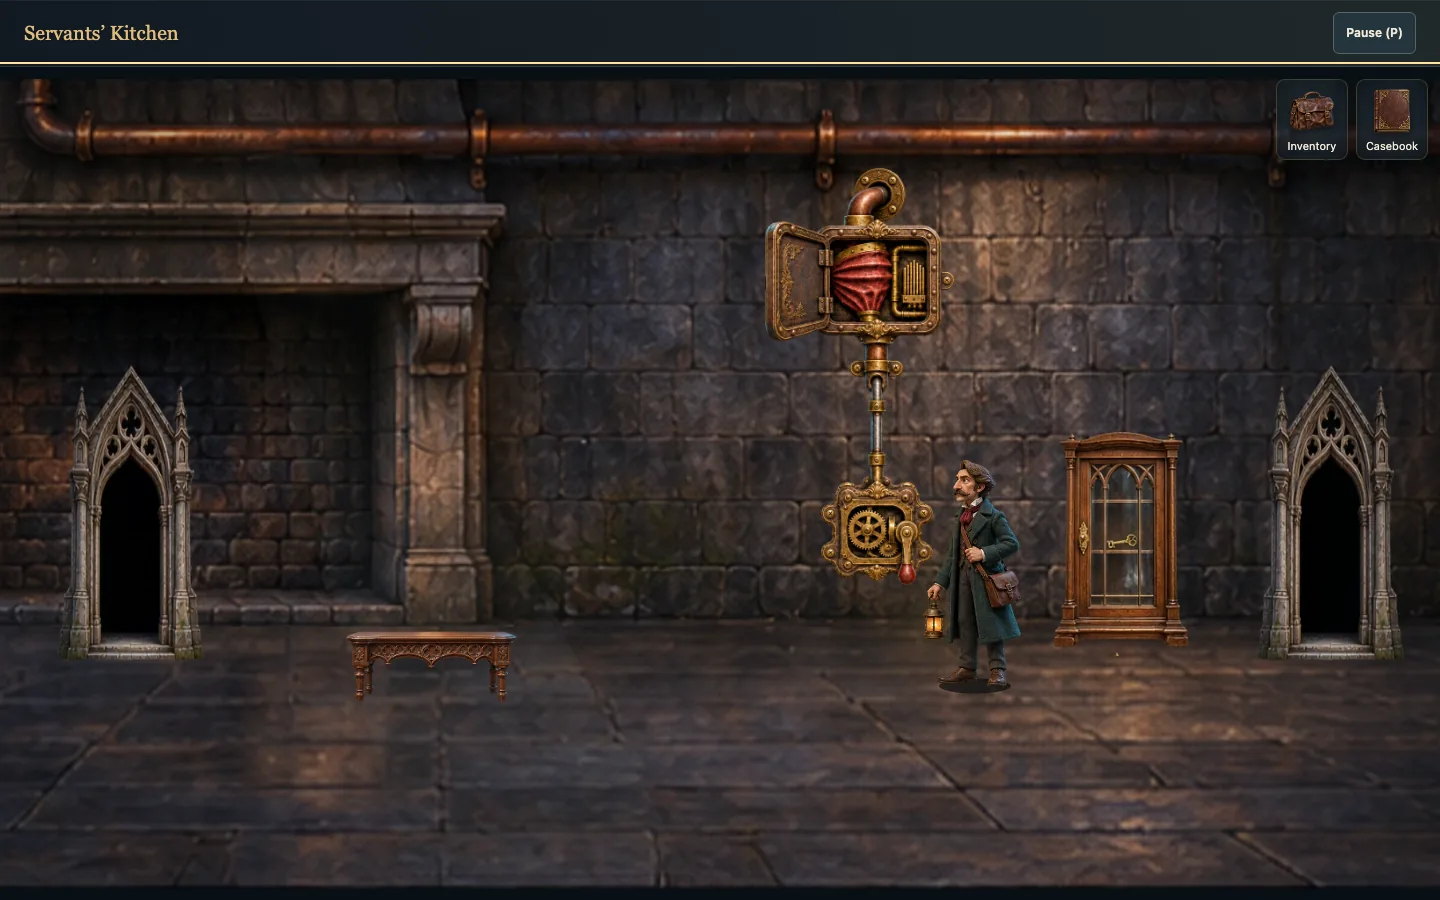
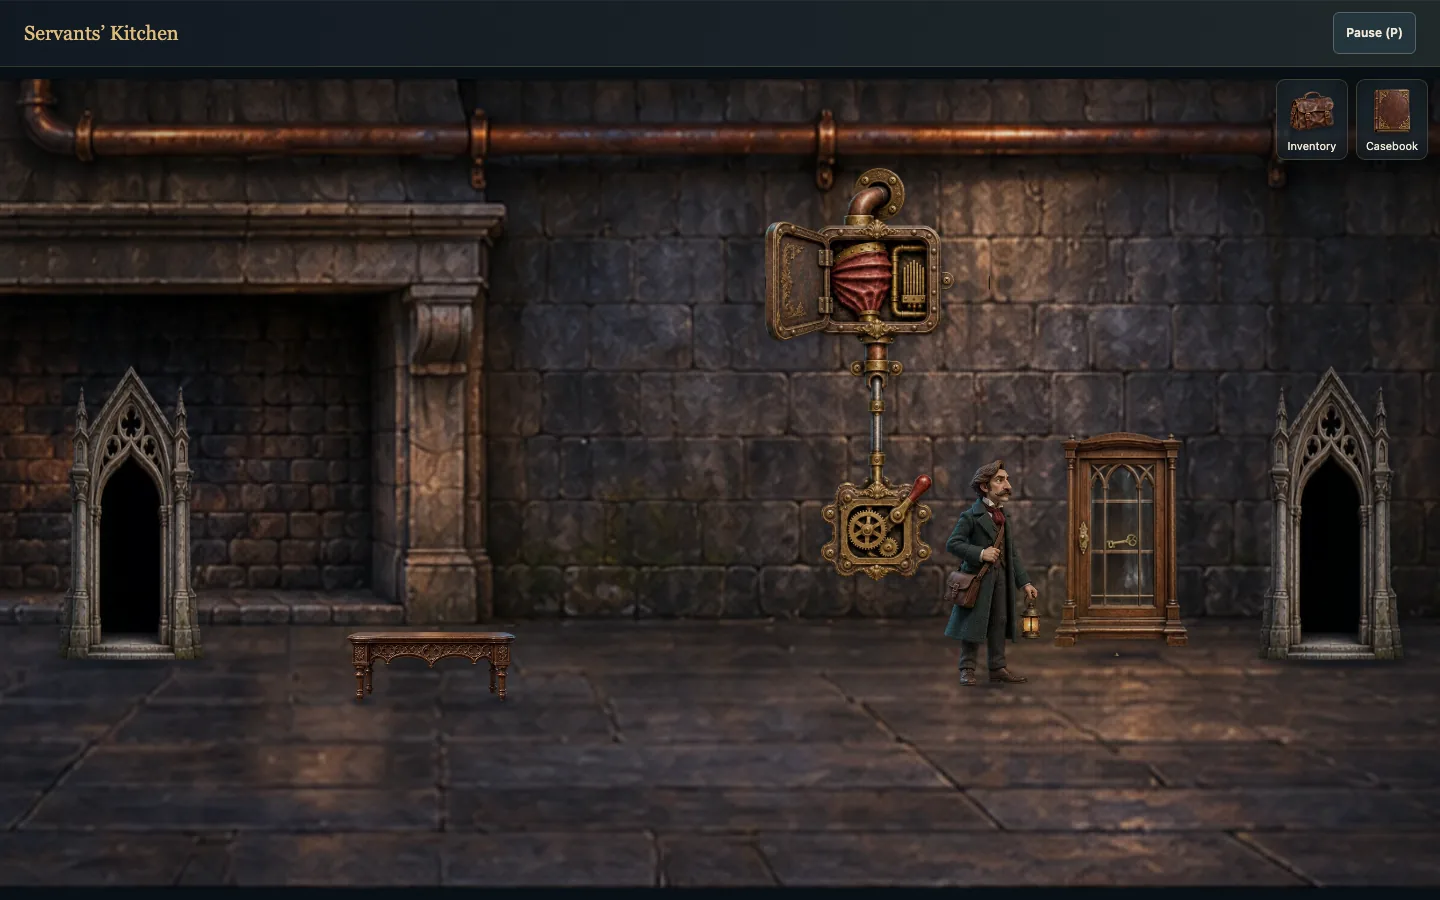
fix: unify adventure scene lighting without blurring sprites (#106)

diff --git a/src/games/point-and-click-adventure/presentation.ts b/src/games/point-and-click-adventure/presentation.ts
@@ -2,6 +2,7 @@ import { createImageResource } from '../../engine/browser/images.ts';
 import { rooms, getTarget, type Point, type TargetId, type ItemId } from './content.ts';
 import { has, roomTargets, wardReady, type Run, type Command, type TargetCommand } from './game.ts';
 import { arcadeArt, appearances, validateArtwork, walkClip, strideDistance, type AdventureArt, type CastRole, type PropRole } from './art.ts';
+import { createSceneArt } from './scene-art.ts';
 export const WORLD = { width: 960, height: 540 };
 export function transform(width: number, height: number) {
   const scale = Math.min(width / WORLD.width, height / WORLD.height);
@@ -28,6 +29,7 @@ export function createPresentation(surface: HTMLElement, art: AdventureArt = arc
   edge.addColorStop(0, '#00000000'); edge.addColorStop(1, '#02091077');
   edgeContext.fillStyle = edge; edgeContext.fillRect(0, 0, WORLD.width, WORLD.height);
   const resource = createImageResource(artwork, dimensions => validateArtwork(art, dimensions));
+  const sceneArt = createSceneArt(art.mode, () => resource.images);
   let disposed = false, sceneryKey = '';
   surface.append(canvas);
   let last: { run: Run; room: Run['room']; x: number; y: number; time: number } | undefined;
@@ -58,20 +60,35 @@ export function createPresentation(surface: HTMLElement, art: AdventureArt = arc
   }
   function sprite(c: CanvasRenderingContext2D, role: PropRole, x: number, y: number, w: number, h: number, angle = 0) {
     const f = propFrames[role], scale = Math.min(w / f.w, h / f.h);
+    if (['crate', 'cabinetOpen', 'cabinetClosed'].includes(role)) shadow(c, x + w / 2, y + h / 2 + f.h * scale / 2, f.w * scale * .48);
+    if (['journal', 'musicBox', 'brush'].includes(role)) shadow(c, x + w / 2, y + h / 2 + f.h * scale / 2, f.w * scale * .42, 2);
     c.save(); c.translate(x + w / 2, y + h / 2); c.rotate(angle);
-    c.drawImage(resource.images.props!, f.x, f.y, f.w, f.h, -f.w * scale / 2, -f.h * scale / 2, f.w * scale, f.h * scale); c.restore();
+    sceneArt.draw(c, 'props', f, -f.w * scale / 2, -f.h * scale / 2, f.w * scale, f.h * scale, role === 'whisper'); c.restore();
   }
   function character(role: CastRole, x: number, foot: number, scale: number, facing = 1, opacity = 1) {
     const f = castFrames[role];
-    c.save(); c.globalAlpha = opacity; c.translate(x, foot); c.scale(facing * scale * f.scale, scale * f.scale);
-    c.drawImage(resource.images[f.sheet]!, f.x, f.y, f.w, f.h, -f.anchorX, -f.foot, f.w, f.h); c.restore();
+    const size = scale * f.scale;
+    c.save(); c.globalAlpha = opacity; c.translate(x, foot); c.scale(facing, 1);
+    sceneArt.draw(c, f.sheet, f, -f.anchorX * size, -f.foot * size, f.w * size, f.h * size,
+      ['oswald', 'brindle', 'guest'].includes(role)); c.restore();
   }
-  function shadow(x: number, y: number, width: number) {
-    c.fillStyle = '#03080bad'; c.beginPath(); c.ellipse(x, y, width, 5, 0, 0, Math.PI * 2); c.fill();
+  function shadow(c: CanvasRenderingContext2D, x: number, y: number, width: number, height = 7, strength = 1) {
+    let stamp = lights.get('contact');
+    if (!stamp) {
+      stamp = document.createElement('canvas'); stamp.width = stamp.height = 128;
+      const ink = stamp.getContext('2d')!, shade = ink.createRadialGradient(64, 64, 0, 64, 64, 64);
+      shade.addColorStop(0, '#091019a6'); shade.addColorStop(.35, '#09101970'); shade.addColorStop(1, '#09101900');
+      ink.fillStyle = shade; ink.fillRect(0, 0, 128, 128); lights.set('contact', stamp);
+    }
+    c.save(); c.globalAlpha *= strength;
+    c.drawImage(stamp, x - width, y - height, width * 2, height * 2); c.restore();
   }
   function table(c: CanvasRenderingContext2D, x: number, y: number, w: number, h: number) {
     const f = equipmentFrames.table;
-    c.drawImage(resource.images.equipment!, f.x, f.y, f.w, f.h, x, y, w, h);
+    shadow(c, x + w / 2, y + h - 1, w * .57, 9, .8);
+    shadow(c, x + w * .10, y + h - 1, w * .10, 4);
+    shadow(c, x + w * .90, y + h - 1, w * .10, 4);
+    sceneArt.draw(c, 'equipment', f, x, y, w, h);
   }
   function itemIcon(id: ItemId | 'satchel' | 'casebook') {
     const icon = document.createElement('canvas'), { sheet, frame: f } = id === 'satchel' || id === 'casebook'
@@ -90,13 +107,14 @@ export function createPresentation(surface: HTMLElement, art: AdventureArt = arc
       const f = propFrames.door;
       // Narrow, tall architectural registration, with its threshold on the
       // authored target's floor rather than vertically centering the arch.
-      c.drawImage(resource.images.props!, f.x, f.y, f.w, f.h, x - 18, y - 55, w + 36, h + 55);
+      shadow(c, x + w / 2, y + h, w * .8, 8, .8);
+      sceneArt.draw(c, 'props', f, x - 18, y - 55, w + 36, h + 55);
       if (id === 'bellDoor' && !has(run, 'confronted')) sprite(c, 'chainAttached', x - 5, y + 60, w + 10, 70);
       return;
     }
     if (['evelyn', 'vale', 'oswald', 'brindle'].includes(id)) {
       const ghost = t.kind === 'ghost', bob = ghost ? Math.sin(time * 1.4 + x) * 2 : 0;
-      shadow(x + w / 2, y + h, w * .34);
+      shadow(c, x + w / 2, y + h, w * .44, ghost ? 10 : 6, ghost ? .35 : .85);
       if (ghost) glow(x + w / 2, y + h * .5, 90, '#65bfa51a');
       character(id as CastRole, x + w / 2, y + h + bob, h / 317, 1, ghost ? .88 : 1); return;
     }
@@ -121,7 +139,7 @@ export function createPresentation(surface: HTMLElement, art: AdventureArt = arc
         const f = serviceFrames[has(run, 'disabled') ? 'stopped' : has(run, 'tubeOpen') ? 'open' : 'closed'];
         // The upper elbow terminates inside the wall. Keep this fitting clear
         // of decorative pipework and leave masonry visible beneath the clock.
-        c.drawImage(resource.images.service!, f.x, f.y, f.w, f.h, 510, 40, 150, 300);
+        sceneArt.draw(c, 'service', f, 510, 40, 150, 300);
         return;
       }
       case 'clock': return; // Drawn with the connected service assembly above.
@@ -156,8 +174,10 @@ export function createPresentation(surface: HTMLElement, art: AdventureArt = arc
     c.save(); c.globalCompositeOperation = 'screen';
     c.fillStyle = '#b5d7ef08';
     const origin = run.room === 'bell' ? 480 : run.room === 'hall' ? 360 : 140;
-    c.beginPath(); c.moveTo(origin, 25); c.lineTo(origin + 55, 25);
-    c.lineTo(origin + 320, 530); c.lineTo(origin + 130, 530); c.closePath(); c.fill();
+    if (run.room === 'hall' || run.room === 'bell') {
+      c.beginPath(); c.moveTo(origin, 25); c.lineTo(origin + 55, 25);
+      c.lineTo(origin + 320, 530); c.lineTo(origin + 130, 530); c.closePath(); c.fill();
+    }
     if (!reduced) for (let i = 0; i < 8; i++) {
       const x = origin + 60 + i * 24 + Math.sin(time * .23 + i) * 5;
       const y = 90 + (i * 53 + time * (1 + i % 3)) % 380;
@@ -192,8 +212,10 @@ export function createPresentation(surface: HTMLElement, art: AdventureArt = arc
       const view = transform(size.width, size.height);
       c.translate(view.x, view.y); c.scale(view.scale, view.scale);
       c.save(); c.beginPath(); c.rect(0, 0, WORLD.width, WORLD.height); c.clip();
+      // Expensive resampling belongs in the static cache, never the frame loop.
       c.imageSmoothingEnabled = true; c.imageSmoothingQuality = 'low';
       const time = reduced ? 0 : animationTime;
+      sceneArt.enter(run.room);
       const visible = roomTargets(run);
       const animated = (id: TargetId) => ['person', 'ghost'].includes(getTarget(id).kind) || id === 'musicBox' || id === 'photo';
       const tableDepth = run.room === 'library' ? 430 : run.room === 'kitchen' ? 402 : undefined;
@@ -208,7 +230,13 @@ export function createPresentation(surface: HTMLElement, art: AdventureArt = arc
         backdrop.setTransform(size.ratio * view.scale, 0, 0, size.ratio * view.scale, size.ratio * view.x, size.ratio * view.y);
         backdrop.imageSmoothingQuality = 'high';
         backdrop.drawImage(resource.images[run.room]!, 0, 0, WORLD.width, WORLD.height);
-        for (const id of visible) if (!layered(id)) object(backdrop, run, id, time);
+        // Mounted objects receive a soft silhouette shadow against the wall.
+        for (const id of visible) if (!layered(id)) {
+          const density = size.ratio * view.scale;
+          backdrop.save(); backdrop.shadowColor = '#080e1766'; backdrop.shadowBlur = 5 * density;
+          backdrop.shadowOffsetX = 2 * density; backdrop.shadowOffsetY = 3 * density;
+          object(backdrop, run, id, time); backdrop.restore();
+        }
         sceneryKey = key;
       }
       c.save(); c.setTransform(1, 0, 0, 1, 0, 0); c.drawImage(scenery, 0, 0); c.restore();
@@ -219,7 +247,8 @@ export function createPresentation(surface: HTMLElement, art: AdventureArt = arc
       for (const layer of layers) if (layer.depth <= run.actor.y) layer.paint();
       const moving = !!run.pending?.path.length;
       const role = moving ? walkClip[Math.floor(phase * walkClip.length) % walkClip.length]! : animationTime < poseUntil ? pose : 'idle';
-      shadow(run.actor.x, run.actor.y, 24);
+      shadow(c, run.actor.x, run.actor.y, 31, 8, .65);
+      shadow(c, run.actor.x, run.actor.y, 16, 3);
       const lanternX = run.actor.x + run.facing * (role === 'lantern' ? 34 : 27);
       const lanternY = run.actor.y - (role === 'lantern' ? 119 : 48);
       glow(lanternX, lanternY, 82, run.lantern.occupant === 'empty' ? '#e4b35725' : '#6dddbb3b', 1 + Math.sin(time * 3.2) * .06);
@@ -249,7 +278,7 @@ export function createPresentation(surface: HTMLElement, art: AdventureArt = arc
     },
     dispose() {
       if (disposed) return; disposed = true;
-      resource.dispose(); canvas.remove();
+      resource.dispose(); sceneArt.dispose(); canvas.remove();
       for (const buffer of [canvas, scenery, vignette, ...lights.values()]) buffer.width = buffer.height = 0;
       lights.clear();
     },

diff --git a/src/games/point-and-click-adventure/scene-art.ts b/src/games/point-and-click-adventure/scene-art.ts
@@ -1,0 +1,68 @@
+import type { ImageBundle } from '../../engine/browser/images.ts';
+import type { Appearance, Frame } from './art.ts';
+import type { RoomId } from './content.ts';
+
+type Color = readonly [number, number, number];
+interface RoomLight { ambient: Color; exposure: number }
+// Match the light already painted into each plate, rather than making every
+// room blue. Small warm highlights and spectral colors remain legible.
+const lighting: Record<Appearance, Record<RoomId, RoomLight>> = {
+  arcade: {
+    hall: { ambient: [100, 112, 122], exposure: .92 },
+    gallery: { ambient: [109, 104, 108], exposure: .91 },
+    library: { ambient: [128, 111, 83], exposure: .94 },
+    kitchen: { ambient: [134, 112, 85], exposure: .93 },
+    bell: { ambient: [91, 114, 126], exposure: .88 },
+  },
+  deluxe: {
+    hall: { ambient: [91, 113, 141], exposure: .83 },
+    gallery: { ambient: [108, 110, 130], exposure: .83 },
+    library: { ambient: [123, 108, 91], exposure: .88 },
+    kitchen: { ambient: [115, 111, 105], exposure: .85 },
+    bell: { ambient: [82, 114, 145], exposure: .81 },
+  },
+};
+type SceneSheet = 'cast' | 'walk' | 'props' | 'equipment' | 'service';
+
+/** Grade native-resolution sheets once on room entry, without pixel readback. */
+export function createSceneArt(mode: Appearance, images: () => ImageBundle) {
+  const sheets = new Map<SceneSheet, HTMLCanvasElement>();
+  let room: RoomId | undefined;
+  function clear() {
+    for (const sheet of sheets.values()) sheet.width = sheet.height = 0;
+    sheets.clear();
+  }
+  return {
+    enter(next: RoomId) {
+      if (next === room) return;
+      clear();
+      const light = lighting[mode][next];
+      const saturation = mode === 'deluxe' ? .80 : .88;
+      const exposure = light.exposure + .054;
+      const reflected = light.ambient.map(channel => Math.round(Math.min(255, 255 * exposure * (.82 + channel / 128 * .18))));
+      for (const name of ['cast', 'walk', 'props', 'equipment', 'service'] as const) {
+        const source = images()[name]!;
+        const sheet = document.createElement('canvas');
+        sheet.width = source.naturalWidth; sheet.height = source.naturalHeight;
+        sheets.set(name, sheet);
+        const ink = sheet.getContext('2d')!;
+        // Work on an opaque matte, then restore the source alpha exactly once.
+        // This keeps blend operations from painting into transparent sheet space.
+        ink.fillStyle = '#20242a'; ink.fillRect(0, 0, sheet.width, sheet.height);
+        ink.drawImage(source, 0, 0);
+        ink.globalCompositeOperation = 'saturation'; ink.globalAlpha = 1 - saturation;
+        ink.fillStyle = '#808080'; ink.fillRect(0, 0, sheet.width, sheet.height);
+        ink.globalCompositeOperation = 'multiply'; ink.globalAlpha = 1;
+        ink.fillStyle = `rgb(${reflected.join(' ')})`; ink.fillRect(0, 0, sheet.width, sheet.height);
+        ink.globalCompositeOperation = 'destination-in'; ink.drawImage(source, 0, 0);
+      }
+      room = next;
+    },
+    draw(c: CanvasRenderingContext2D, sheet: SceneSheet, f: Frame,
+      x: number, y: number, w: number, h: number, spectral = false) {
+      const source = spectral ? images()[sheet]! : sheets.get(sheet)!;
+      c.drawImage(source, f.x, f.y, f.w, f.h, x, y, w, h);
+    },
+    dispose() { clear(); room = undefined; },
+  };
+}

diff --git a/src/games/point-and-click-adventure/art/README.md b/src/games/point-and-click-adventure/art/README.md
@@ -17,6 +17,30 @@ imagegen tool. There are no third-party asset packs or required credits.
 The complete source PNG drawings are in `source/`; the production prompts and
 targeted edit instructions are in [prompts.md](prompts.md).
 
+## Scene cohesion
+
+`../scene-art.ts` owns room-specific reflected color, exposure and saturation for
+both artwork families. Match these to the light painted into each room plate:
+warm library and kitchen materials, cooler moonlit stone. Preserve dark folds
+and silhouettes instead of lifting blacks with a flat tint. Spectral cels keep
+their authored emission color; inventory illustrations use neutral light.
+
+On room entry, native-resolution sheets receive the room's color treatment
+through Canvas compositing, retaining source detail and alpha without pixel
+readbacks. Changing poses or walking never creates new lighting variants.
+Static scenery is sampled once into a display-resolution cache and copied
+without rescaling each frame. Use inexpensive smooth sampling for moving cels;
+high-quality resampling belongs in the static cache rebuild. Soft floor contacts anchor furniture, doors
+and feet; mounted objects cast restrained silhouette shadows. Visible moonbeams
+belong only in rooms with painted windows. Judge replacement art together with
+these treatments at gameplay size, including open/closed object states. Replace
+the room's light profile when its painted lighting changes.
+
+The graded sheets are released on room changes and presentation disposal.
+Do not downsample actors to hide stylistic differences, process image pixels
+in the animation loop or use CSS
+filters to correct the entire interface. See the [design references](../../../../docs/games/point-and-click-adventure/research.md#visual-integration).
+
 ## Exporting and replacing artwork
 
 Run `node src/games/point-and-click-adventure/art/pack.mjs` from the repository root.
@@ -78,12 +102,12 @@ Canvas effects. The bell is drawn before its independent inhabitant.
 Walking, reaching and lantern operation observe commands, displacement and
 completed approaches. They never delay an action or alter a puzzle result.
 Examination keeps the standing pose; brief reach and lantern poses mark physical
-interactions. Walls and mounted objects are cached at display resolution and rebuilt for
-room, prop-state or display changes. Floor objects, tables, their contents and
+interactions. Walls and mounted objects use the [static scenery cache](#scene-cohesion),
+rebuilt for room, prop-state and display changes. Floor objects, tables, their contents and
 characters share a depth pass using foot contact or authored support depth, so
 nearer objects occlude Wren. Physical table clearances remain in content. Light
 stamps and the vignette are rasterized once instead of painting gradients every
-frame, and live sprites use smooth low-cost sampling.
+frame, and live sprites draw complete cels from the room's native-resolution sheets.
 Active-run time freezes cosmetic motion while paused. Reduced motion removes
 dust, ghost drift and light flicker while retaining locomotion and object states.
 Room changes and new runs reset cosmetic registration. Required artwork is

diff --git a/docs/games/point-and-click-adventure/research.md b/docs/games/point-and-click-adventure/research.md
@@ -46,6 +46,30 @@ Adventure Creator’s [Inventory interaction menus](https://adventurecreator.org
 
 Keep feedback beside its cause. An observation describes the fictional clue, while the Casebook holds the evidence. This case omits an additional “Evidence recorded” acknowledgement rather than mixing system messages into narration or creating another notification layer.
 
+## Visual integration
+
+The [Adventure Game Studio ambient-light documentation](https://adventuregamestudio.github.io/ags-manual/Globalfunctions_General.html#setambienttint)
+describes applying room tint and luminance to objects and characters. It is a
+practical adventure-game precedent for making separate sprites inhabit the
+background's lighting, rather than lighting every object like an inventory icon.
+The local compositor applies authored room-specific reflected color and exposure
+to complete cels, with separate neutral inventory illustrations and spectral
+emission. Soft surface contacts support placement without highlighting every
+interactive boundary.
+
+Mitchell, Francke and Eng's [Illustrative Rendering in Team Fortress 2](https://steamcdn-a.akamaihd.net/apps/valve/2007/NPAR07_IllustrativeRenderingInTeamFortress2.pdf)
+connects art direction and rendering through related materials, warm/cool value
+shifts, restrained fine detail and readable silhouettes. Its 3D shaders are not
+used here. The applicable principle is to evaluate the room, actor and props as
+one composition at gameplay size, keeping clue accents within that shared
+language. Preserving source detail while matching reflected color and reducing
+isolated specular contrast addresses the cutout appearance without making
+interaction depend on bright outlines. Equalizing layers by shrinking the
+actors discards detail, while expensive resampling on every frame harms motion;
+prepare the lighting and static resampling separately from animation.
+The local [artwork guide](../../../src/games/point-and-click-adventure/art/README.md#scene-cohesion)
+owns the actual rendering and replacement contract.
+
 ## Inspiration boundaries
 
 **Maniac Mansion** suggests an inhabited house with responsive characters and objects; its dead ends are not a goal. **Monkey Island** suggests a distinctive protagonist and comprehensible puzzle goals, rather than a required setting or verb count. **Day of the Tentacle** suggests making puzzles and presentation share a coherent fictional logic; multiple protagonists and time travel are separate mechanics that this case does not implement.

diff --git a/src/games/point-and-click-adventure/art/DELUXE.md b/src/games/point-and-click-adventure/art/DELUXE.md
@@ -59,7 +59,14 @@ that script, role mappings in `../deluxe.ts`, and gameplay geometry in content.
 | `source/service.png` | 1536 × 1024, three full-height columns: closed, open and disconnected service assembly. High cleanout, continuous pipe/drive shaft and hand-height clock control share registered positions. See the [assembly brief](README.md#kitchen-service-assembly). |
 
 Exports retain transparent alpha and use smooth Canvas sampling. The compositor
-caches static scenery at the bounded backing-buffer resolution, with both axes
-capped at 2560 × 1440 independently of display DPR. Selected artwork supplies
+caches static scenery at display resolution and preserves native sprite-sheet
+detail. The display buffer remains capped at 2560 × 1440 independently of display DPR.
+High-quality scenery resampling runs only on cache rebuild; moving cels use
+inexpensive smooth sampling. Room grading uses Canvas compositing on entry,
+without pixel readbacks or new variants as Wren walks.
+Room-matched reflected color, restrained highlights and soft contact shadows
+integrate the detailed objects into their painted setting. The shared local
+[scene-cohesion contract](README.md#scene-cohesion) owns this treatment.
+Selected artwork supplies
 inventory icons as well as scene objects. Only the selected candidate requests
 Deluxe images; a fresh clone needs no generation service.

diff --git a/docs/games/point-and-click-adventure/README.md b/docs/games/point-and-click-adventure/README.md
@@ -69,6 +69,7 @@ All adventure-specific code lives in [`src/games/point-and-click-adventure/`](..
 | [`ui.ts`](../../../src/games/point-and-click-adventure/ui.ts), [`style.css`](../../../src/games/point-and-click-adventure/style.css) | Native scene targets through the uniform world transform, contextual controls, dismissible panels and focus preservation |
 | [`input.ts`](../../../src/games/point-and-click-adventure/input.ts) | Shared action-button bindings and floor-click translation through the uniform world transform |
 | [`presentation.ts`](../../../src/games/point-and-click-adventure/presentation.ts) | Shared Canvas composition for Arcade and Deluxe, complete character cels, stateful props, cosmetic motion and the uniform world transform |
+| [`scene-art.ts`](../../../src/games/point-and-click-adventure/scene-art.ts) | Room-specific sprite lighting and native-resolution graded sheets, prepared on room entry without pixel readbacks |
 | [`sound.ts`](../../../src/games/point-and-click-adventure/sound.ts) | AudioBits recipes, cue admission and shared audio lifecycle composition |
 | [`app.ts`](../../../src/games/point-and-click-adventure/app.ts) | Synchronous mounting, shared host/menu/focus owners, fixed stepping, saves and disposal |
 
